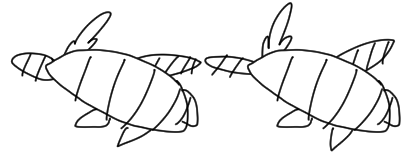
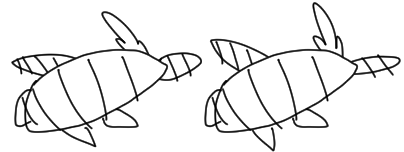
imp. generate Zarigani rule

Changed region(s): [[0.0, 0.0, 1.0, 1.0]]

diff --git a/script.js b/script.js
@@ -63,7 +63,9 @@ window.onload = function() {
 
             let zarigani = new Sprite(202, 152);
             zarigani.image = game.assets[IMG_ZARI0];
-            zarigani.moveTo(600, 330);
+            zarigani.scaleX = -0.8;
+            zarigani.scaleY = 0.8;
+            zarigani.moveTo(600, 320);
             this.addChild(zarigani);
 
             let title = new Sprite(560, 178);
@@ -77,7 +79,7 @@ window.onload = function() {
             ankimo.moveTo(440, 125);
             this.addChild(ankimo);
 
-            let message = new OutlineLabel('click/tap to start!', GAME_WIDTH, 50, 'black', 'white', undefined, 'center');
+            let message = new OutlineLabel('tap to start!', GAME_WIDTH, 50, 'black', 'white', undefined, 'center');
             message.moveTo(0, 450);
             this.addChild(message);
 
@@ -214,10 +216,54 @@ window.onload = function() {
                         }
                         else
                         {
-                            if(this.age % 30 == 1){
-                                let zari = new Zari3();
-                                zari.moveTo(-zari.width, 400);
-                                this.insertBefore(zari, this.wave);
+                            // ザリガニ生成ルール
+                            const MIN_ZARIGANI_COUNT = 3;
+                            const MAX_ZARIGANI_COUNT = 8;
+                            const ZARI_GENERATE_RATE = 30; // [frame/gen]
+                            let living_zari_count = ZariBase.collection.length;
+                            if(living_zari_count < MAX_ZARIGANI_COUNT)
+                            {
+                                if(living_zari_count < MIN_ZARIGANI_COUNT || Math.random() <= 1 / ZARI_GENERATE_RATE)
+                                {
+                                    let zari_gen_weight = [];
+                                    zari_gen_weight[0] = 1;
+                                    zari_gen_weight[1] = 1;
+                                    zari_gen_weight[2] = 1;
+                                    zari_gen_weight[3] = 1;
+                                    let total_weight = 0;
+                                    for (const w of zari_gen_weight) { total_weight += w; }
+
+                                    let zari_type = 0;
+                                    let type_random = Math.random();
+                                    let cumulate_weight = 0;
+                                    for (zari_type = 0; zari_type < zari_gen_weight.length; zari_type++){
+                                        cumulate_weight += zari_gen_weight[zari_type];
+                                        if(type_random < cumulate_weight / total_weight) break;
+                                    }
+
+                                    const WAVE_Y = 250;
+                                    let zari_entity;
+                                    switch (zari_type) {
+                                        default:
+                                        case 0:
+                                            zari_entity = new Zari0();
+                                            zari_entity.moveTo(-zari_entity.width, WAVE_Y + Math.random() * (GAME_HEIGHT - WAVE_Y - zari_entity.height));
+                                            break;
+                                        case 1:
+                                            zari_entity = new Zari1();
+                                            zari_entity.moveTo(-zari_entity.width, WAVE_Y + Math.random() * (GAME_HEIGHT - WAVE_Y - zari_entity.height));
+                                            break;
+                                        case 2:
+                                            zari_entity = new Zari2();
+                                            zari_entity.moveTo(-zari_entity.width, GAME_HEIGHT - zari_entity.height + 5);
+                                            break;
+                                        case 3:
+                                            zari_entity = new Zari3();
+                                            zari_entity.moveTo(-zari_entity.width, WAVE_Y + Math.random() * (GAME_HEIGHT - WAVE_Y - zari_entity.height));
+                                            break;
+                                    }
+                                    this.insertBefore(zari_entity, this.wave);
+                                }
                             }
                         }
                     }
@@ -537,12 +583,12 @@ window.onload = function() {
     });
     var Zari0 = Class.create(ZariBase,{
         initialize: function(){
-            ZariBase.call(this, 202, 152, IMG_ZARI0, 187, 120, 5, 100)
+            ZariBase.call(this, 202, 152, IMG_ZARI0, 135, 52, 5, 100)
         }
     });
     var Zari1 = Class.create(ZariBase,{
         initialize: function(){
-            ZariBase.call(this, 140, 117, IMG_ZARI1, 127, 82, 10, 2500)
+            ZariBase.call(this, 140, 117, IMG_ZARI1, 105, 40, 10, 2500)
         }
     });
     var Zari2 = Class.create(ZariBase,{
